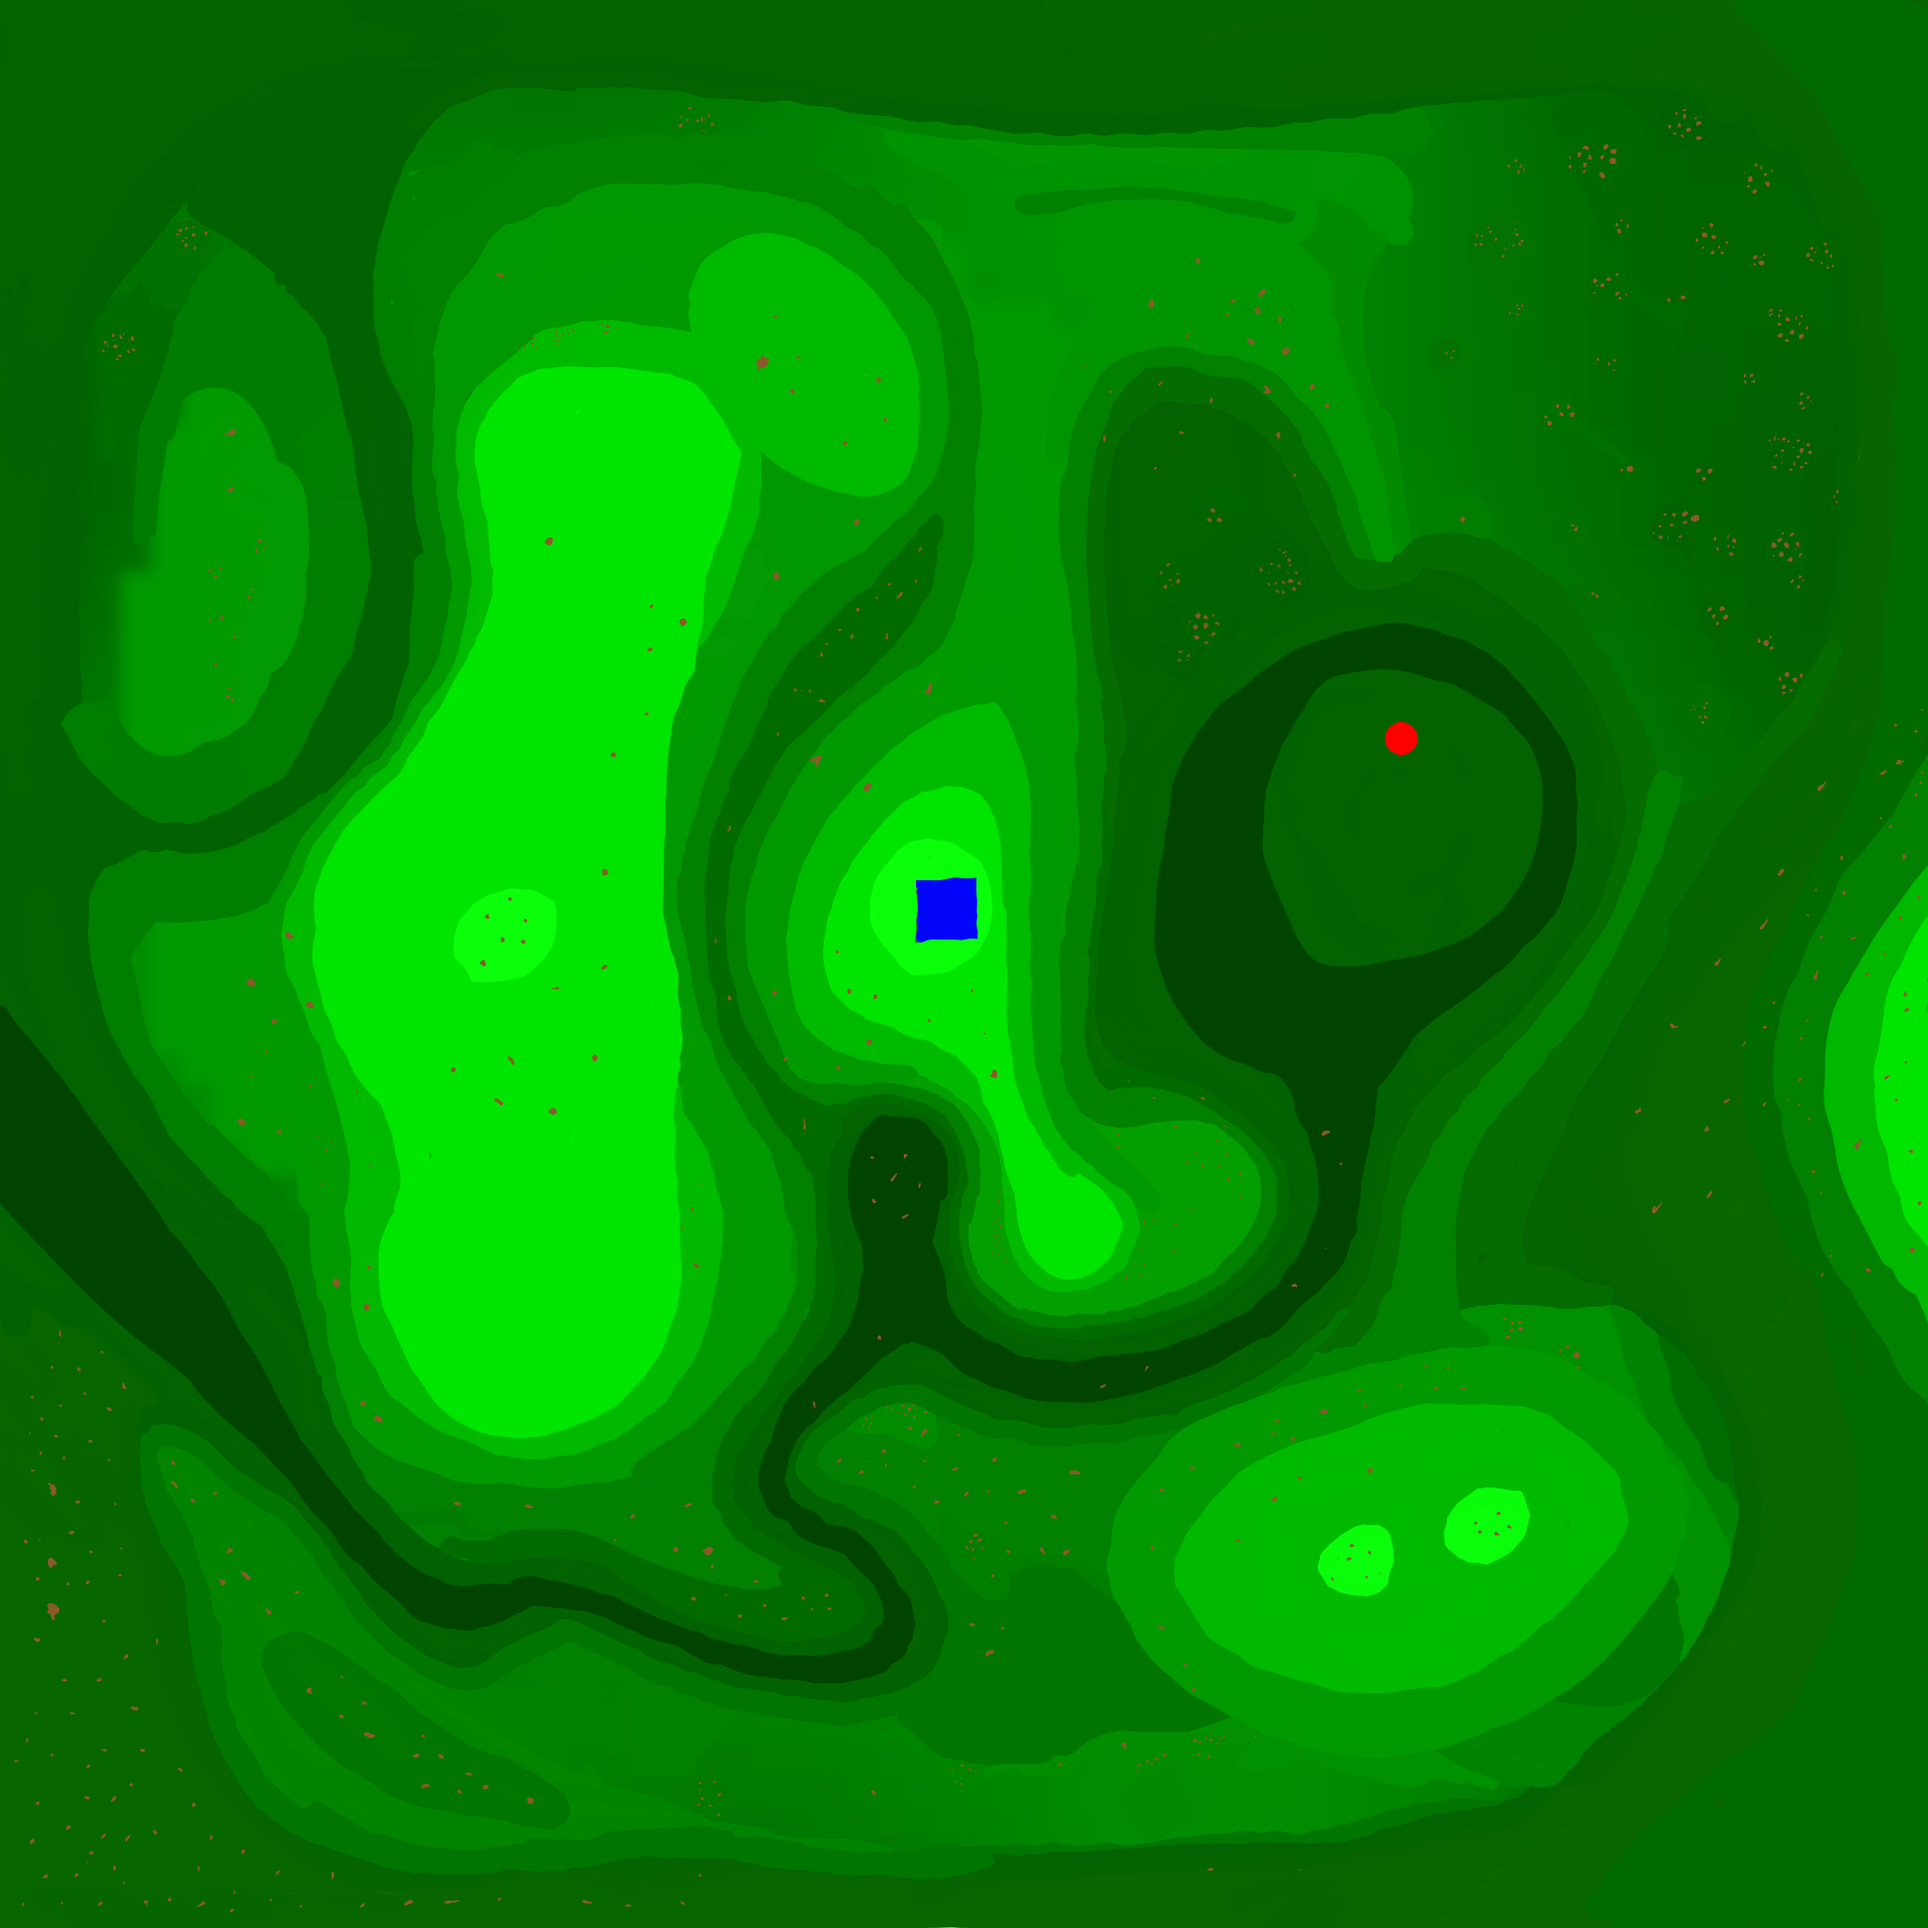
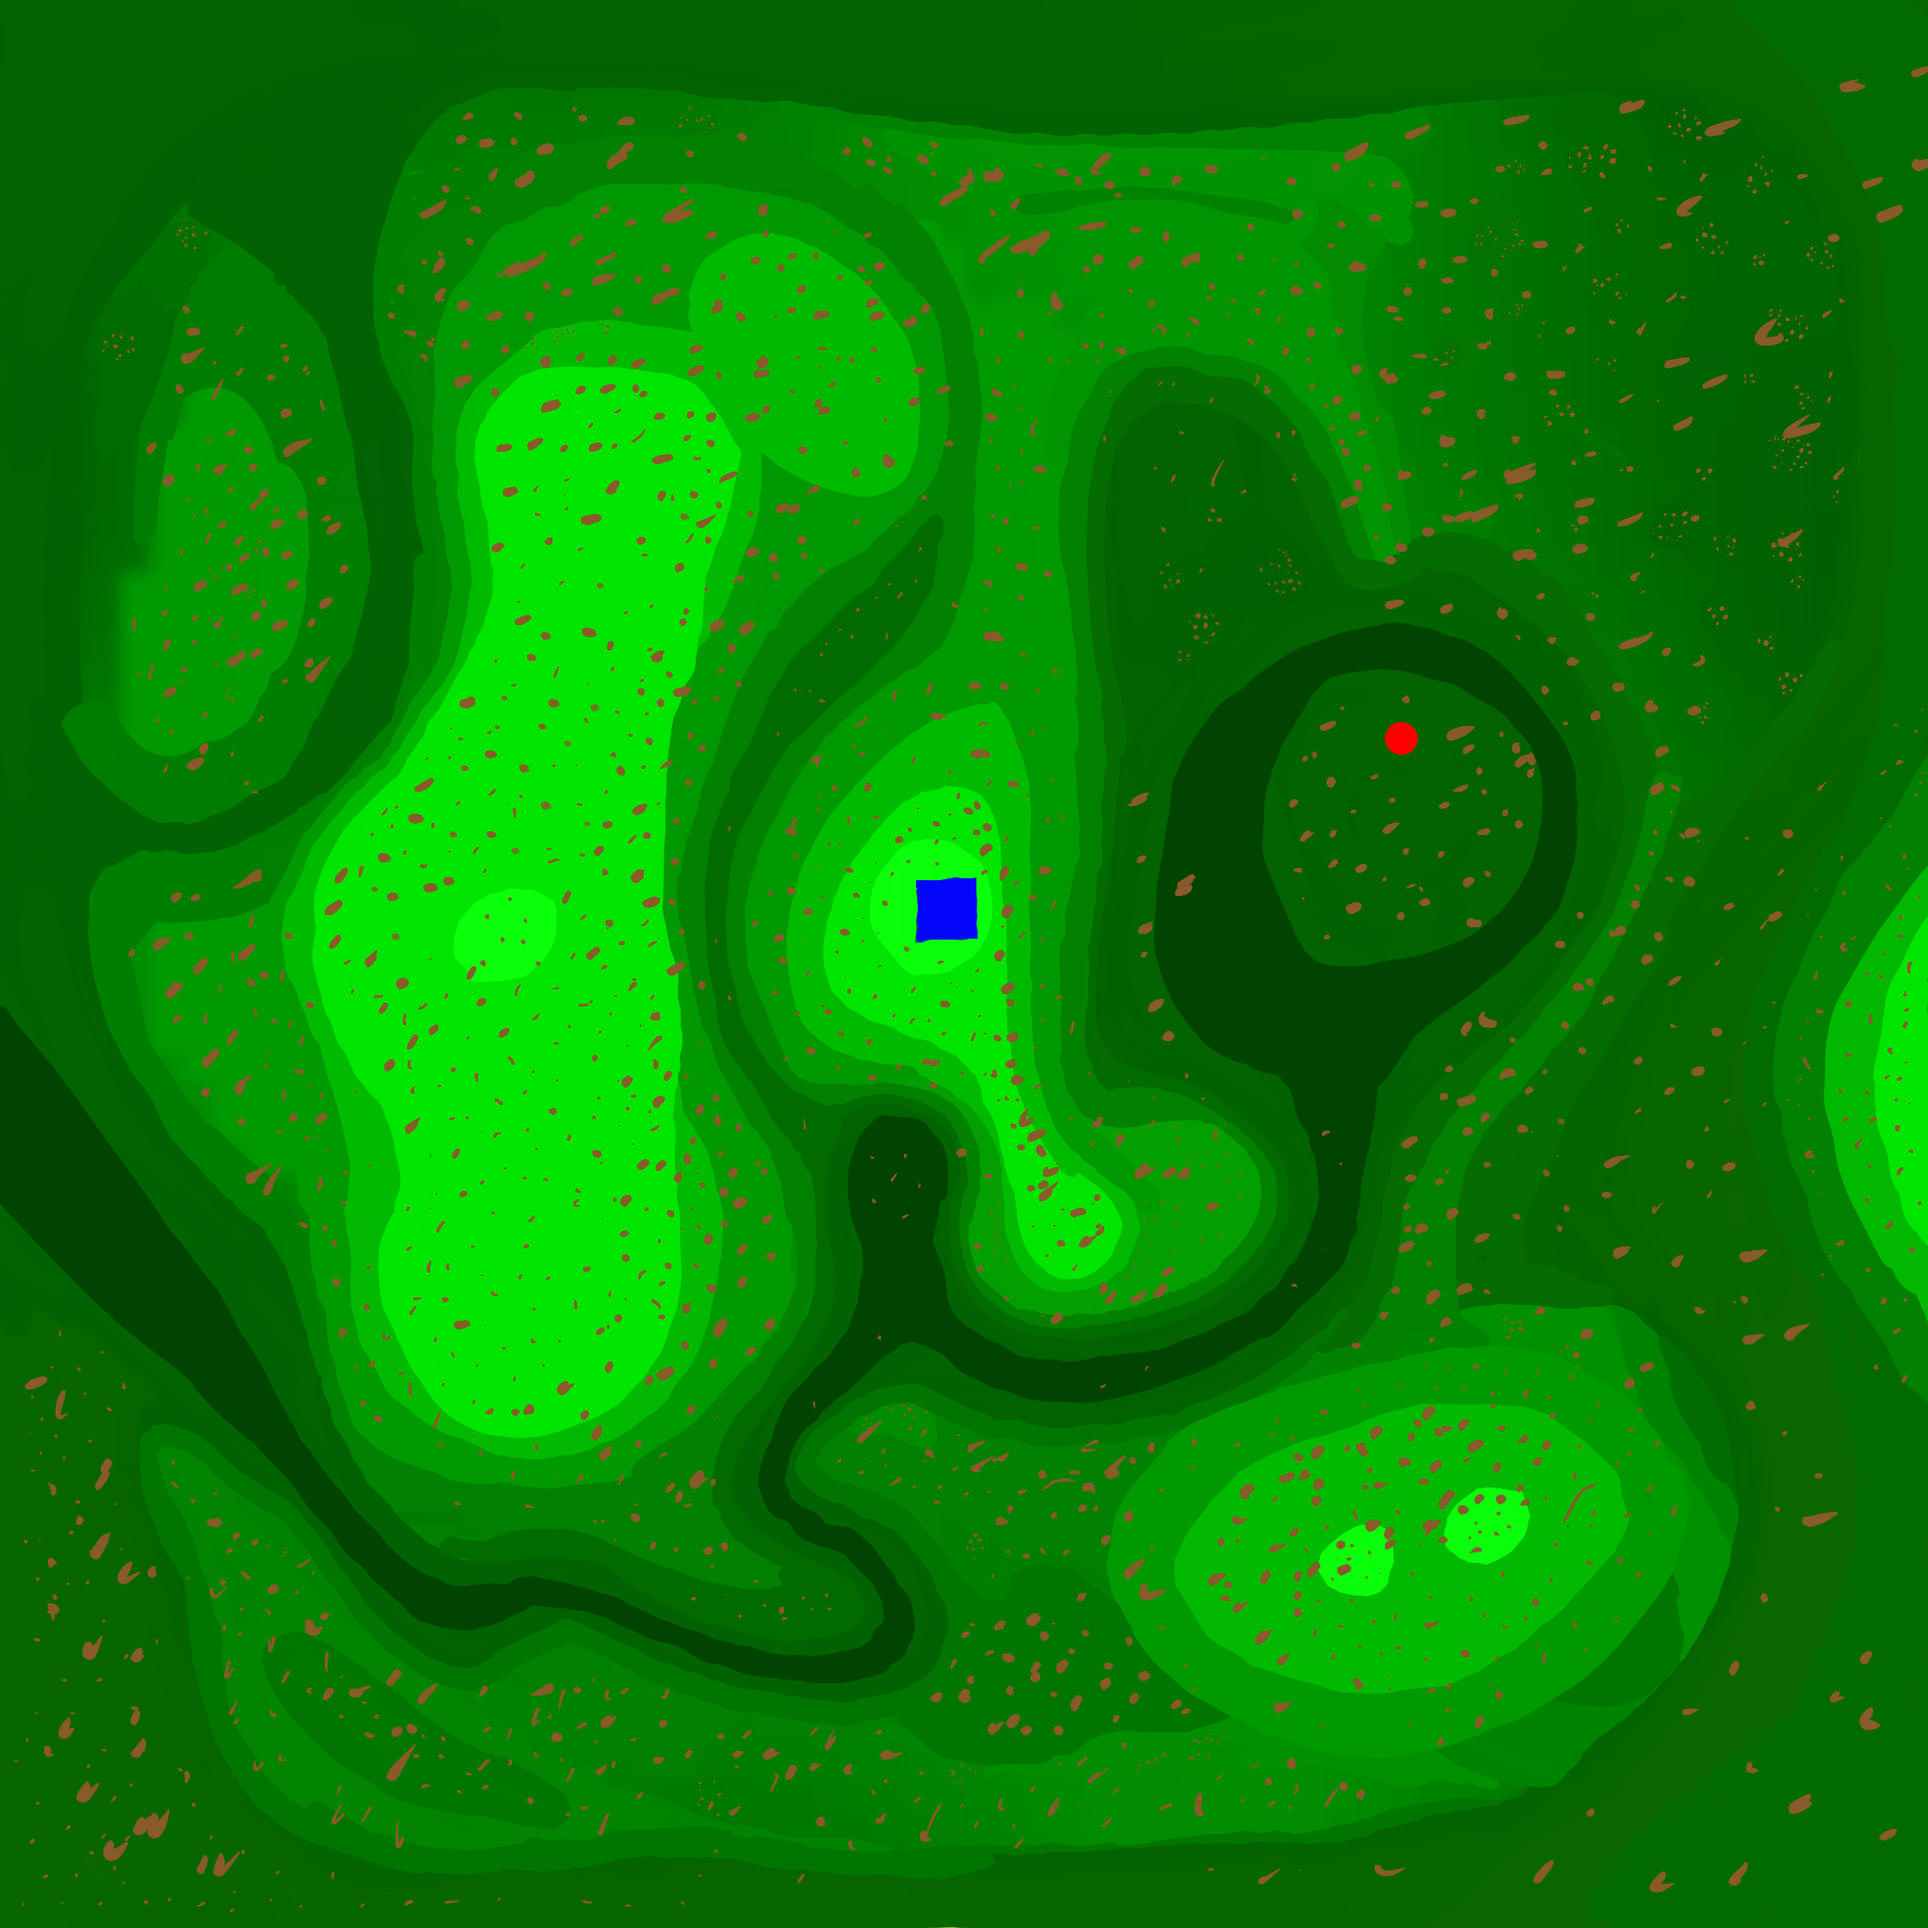
optimized for firefox and added many more trees and removed sprig images for performance reasons.

diff --git a/index.html b/index.html
@@ -1344,8 +1344,8 @@
     import * as THREE from 'three';
     const IS_FIREFOX = /firefox/i.test(navigator.userAgent);
     const WORLD_DETAIL = IS_FIREFOX
-      ? { pixelRatio: 1, antialias: false, sampleStep: 8, smoothPasses: 2, slopePasses: 8, maxTrees: 2600 }
-      : { pixelRatio: Math.min(devicePixelRatio, 1.5), antialias: true, sampleStep: 4, smoothPasses: 3, slopePasses: 16, maxTrees: 12000 };
+      ? { pixelRatio: 0.75, antialias: false, sampleStep: 12, smoothPasses: 1, slopePasses: 4, maxTrees: 900, targetFps: 30 }
+      : { pixelRatio: Math.min(devicePixelRatio, 1.5), antialias: true, sampleStep: 4, smoothPasses: 3, slopePasses: 16, maxTrees: 12000, targetFps: 60 };
     import { GLTFLoader } from './vendor/GLTFLoader.js';
     import { mergeGeometries } from './utils/BufferGeometryUtils.js';
 
@@ -1353,9 +1353,9 @@
        FILES
     ========================= */
     const MAP_URL = './images/map.png';
-    const HERO_WALK_GLB = './assets/mezza_walking.glb';
-    const HERO_RUN_GLB = './assets/mezza_running.glb';
-    const HERO_IDLE_GLB = './assets/mezza_idle.glb';
+    const HERO_WALK_GLB = null;
+    const HERO_RUN_GLB = null;
+    const HERO_IDLE_GLB = null;
     const FUSION_REACTOR_GLB = 'https://media.githubusercontent.com/media/mcdowellj87/SuperFutureTheLostUtopia/main/assets/FusionReactor.glb';
     const FUSION_REACTOR_GLB_FALLBACK = FUSION_REACTOR_GLB;
     const FIR_BRANCH_SPRIG_URL = './images/branch.png';
@@ -2763,6 +2763,11 @@ const h = new Float32Array(mapW * mapH);
     const FIR_BRANCH_SPRIG_OUT_ANGLE_ACCEL = 1.45;
     const FIR_BRANCH_SPRIG_ANGLE_VARIATION_FORWARD_PCT = 0.20;
     const FIR_BRANCH_SPRIG_ANGLE_VARIATION_BACKWARD_PCT = 0.07;
+    const FIR_TWIG_RADIAL_SEGMENTS = 3;
+    const FIR_TWIG_START_T = 0.18;
+    const FIR_TWIG_LENGTH = 3.4;
+    const FIR_TWIG_RADIUS_BASE = 0.055;
+    const FIR_TWIG_RADIUS_TIP = 0.012;
 
     let treeInstancesMesh = null;
     let treeTemplateGeometry = null;
@@ -2851,6 +2856,18 @@ const h = new Float32Array(mapW * mapH);
       return THREE.MathUtils.lerp(1.0 - FIR_BRANCH_LENGTH_RANDOM_TRUNK_PCT, 1.0, rand());
     }
 
+    function addTubeBetween(parts, a, b, radiusBase, radiusTip, up, q, mid) {
+      const segLen = a.distanceTo(b);
+      if (segLen <= 1e-4) return;
+
+      const tube = new THREE.CylinderGeometry(radiusTip, radiusBase, segLen, FIR_TWIG_RADIAL_SEGMENTS, 1, false);
+      mid.copy(a).add(b).multiplyScalar(0.5);
+      q.setFromUnitVectors(up, b.clone().sub(a).normalize());
+      tube.applyQuaternion(q);
+      tube.translate(mid.x, mid.y, mid.z);
+      parts.push(tube);
+    }
+
     function buildDouglasFirTemplateGeometry() {
       if (treeTemplateGeometry) return treeTemplateGeometry;
 
@@ -2878,6 +2895,10 @@ const h = new Float32Array(mapW * mapH);
       const b = new THREE.Vector3();
       const mid = new THREE.Vector3();
       const up = new THREE.Vector3(0, 1, 0);
+      const side = new THREE.Vector3();
+      const twigDir = new THREE.Vector3();
+      const twigStart = new THREE.Vector3();
+      const twigEnd = new THREE.Vector3();
       const q = new THREE.Quaternion();
 
       for (let i = 0; i < FIR_WHORLS; i++) {
@@ -2911,15 +2932,38 @@ const h = new Float32Array(mapW * mapH);
             for (let k = 0; k < FIR_BRANCH_SEGMENTS; k++) {
               a.copy(points[k]);
               b.copy(points[k + 1]);
-              const segLen = a.distanceTo(b);
-              if (segLen <= 1e-4) continue;
+              addTubeBetween(parts, a, b, thickness, thickness, up, q, mid);
 
-              const seg = new THREE.CylinderGeometry(thickness, thickness, segLen, 5, 1, false);
-              mid.copy(a).add(b).multiplyScalar(0.5);
-              q.setFromUnitVectors(up, b.clone().sub(a).normalize());
-              seg.applyQuaternion(q);
-              seg.translate(mid.x, mid.y, mid.z);
-              parts.push(seg);
+              const branchU = (k + 0.5) / FIR_BRANCH_SEGMENTS;
+              if (branchU < FIR_TWIG_START_T) continue;
+
+              side.crossVectors(up, dir);
+              if (side.lengthSq() < 1e-8) side.set(1, 0, 0);
+              side.normalize();
+
+              const twigLen = FIR_TWIG_LENGTH * Math.pow(1 - branchU, 0.82) * THREE.MathUtils.lerp(1.2, 0.45, t);
+              const twigRadius = FIR_TWIG_RADIUS_BASE * Math.pow(1 - branchU, 0.65) * THREE.MathUtils.lerp(1.2, 0.55, t);
+              const sideSign = ((k + j) % 2 === 0) ? 1 : -1;
+
+              twigStart.copy(a).lerp(b, 0.54);
+              twigDir.copy(dir)
+                .multiplyScalar(0.28)
+                .addScaledVector(side, sideSign * 0.52)
+                .addScaledVector(gravity, 0.72)
+                .normalize();
+              twigEnd.copy(twigStart).addScaledVector(twigDir, twigLen);
+              addTubeBetween(parts, twigStart, twigEnd, twigRadius, FIR_TWIG_RADIUS_TIP, up, q, mid);
+
+              if (branchU < 0.78 && t < 0.92) {
+                twigStart.copy(a).lerp(b, 0.82);
+                twigDir.copy(dir)
+                  .multiplyScalar(0.18)
+                  .addScaledVector(side, -sideSign * 0.42)
+                  .addScaledVector(gravity, 0.82)
+                  .normalize();
+                twigEnd.copy(twigStart).addScaledVector(twigDir, twigLen * 0.72);
+                addTubeBetween(parts, twigStart, twigEnd, twigRadius * 0.82, FIR_TWIG_RADIUS_TIP, up, q, mid);
+              }
             }
           }
         }
@@ -3184,40 +3228,6 @@ const h = new Float32Array(mapW * mapH);
 
       treeInstancesMesh.instanceMatrix.needsUpdate = true;
       levelRoot.add(treeInstancesMesh);
-
-      const sprigLocals = buildDouglasFirBranchSprigLocalMatrices();
-      if (!treeBranchSprigTemplateGeometry) {
-        treeBranchSprigTemplateGeometry = new THREE.PlaneGeometry(1, 1, 1, 1);
-        treeBranchSprigTemplateGeometry.translate(0, FIR_BRANCH_SPRIG_TOP_INTERSECT_PORTION - 0.5, 0);
-      }
-      if (!treeBranchSprigTemplateMaterial) {
-        treeBranchSprigTemplateMaterial = new THREE.MeshBasicMaterial({
-          map: getTreeBranchSprigTexture(),
-          transparent: true,
-          alphaTest: 0.3,
-          side: THREE.DoubleSide,
-          depthWrite: false
-        });
-      }
-
-      const sprigCount = blobs.length * sprigLocals.length;
-      treeBranchSprigInstancesMesh = new THREE.InstancedMesh(treeBranchSprigTemplateGeometry, treeBranchSprigTemplateMaterial, sprigCount);
-      treeBranchSprigInstancesMesh.castShadow = false;
-      treeBranchSprigInstancesMesh.receiveShadow = false;
-      treeBranchSprigInstancesMesh.frustumCulled = !IS_FIREFOX;
-
-      const sprigMatrix = new THREE.Matrix4();
-      let sprigIndex = 0;
-      for (let i = 0; i < blobs.length; i++) {
-        treeInstancesMesh.getMatrixAt(i, m);
-        for (let j = 0; j < sprigLocals.length; j++) {
-          sprigMatrix.multiplyMatrices(m, sprigLocals[j]);
-          treeBranchSprigInstancesMesh.setMatrixAt(sprigIndex, sprigMatrix);
-          sprigIndex++;
-        }
-      }
-      treeBranchSprigInstancesMesh.instanceMatrix.needsUpdate = true;
-      levelRoot.add(treeBranchSprigInstancesMesh);
     }
 
     /* =========================
@@ -3564,6 +3574,7 @@ const h = new Float32Array(mapW * mapH);
     }
 
     async function safeLoad(label, url, loaderFn) {
+      if (!url) return null;
       try {
         return await loaderFn(url);
       } catch (err) {
@@ -4389,8 +4400,26 @@ const h = new Float32Array(mapW * mapH);
     const sunDirWorld = new THREE.Vector3();
     const sunDirView = new THREE.Vector3();
     const clock = new THREE.Clock();
-    function animate() {
-      const dt = Math.min(clock.getDelta(), 0.10);
+    let lastRenderTime = 0;
+    let animationPaused = false;
+
+    document.addEventListener('visibilitychange', () => {
+      animationPaused = document.hidden;
+      if (!animationPaused) {
+        clock.getDelta();
+        lastRenderTime = performance.now();
+      }
+    });
+
+    function animate(now = 0) {
+      requestAnimationFrame(animate);
+      if (animationPaused) return;
+
+      const minFrameMs = 1000 / WORLD_DETAIL.targetFps;
+      if (now - lastRenderTime < minFrameMs) return;
+      lastRenderTime = now;
+
+      const dt = Math.min(clock.getDelta(), 0.05);
 
       // Animate sun from east to west in a 2-minute loop
       sunArcT = (sunArcT + dt) % SUN_ARC_DURATION_S;
@@ -4439,7 +4468,6 @@ const h = new Float32Array(mapW * mapH);
       updateHeroAndCamera(dt);
 
       renderer.render(scene, camera);
-      requestAnimationFrame(animate);
     }
     requestAnimationFrame(animate);
 
